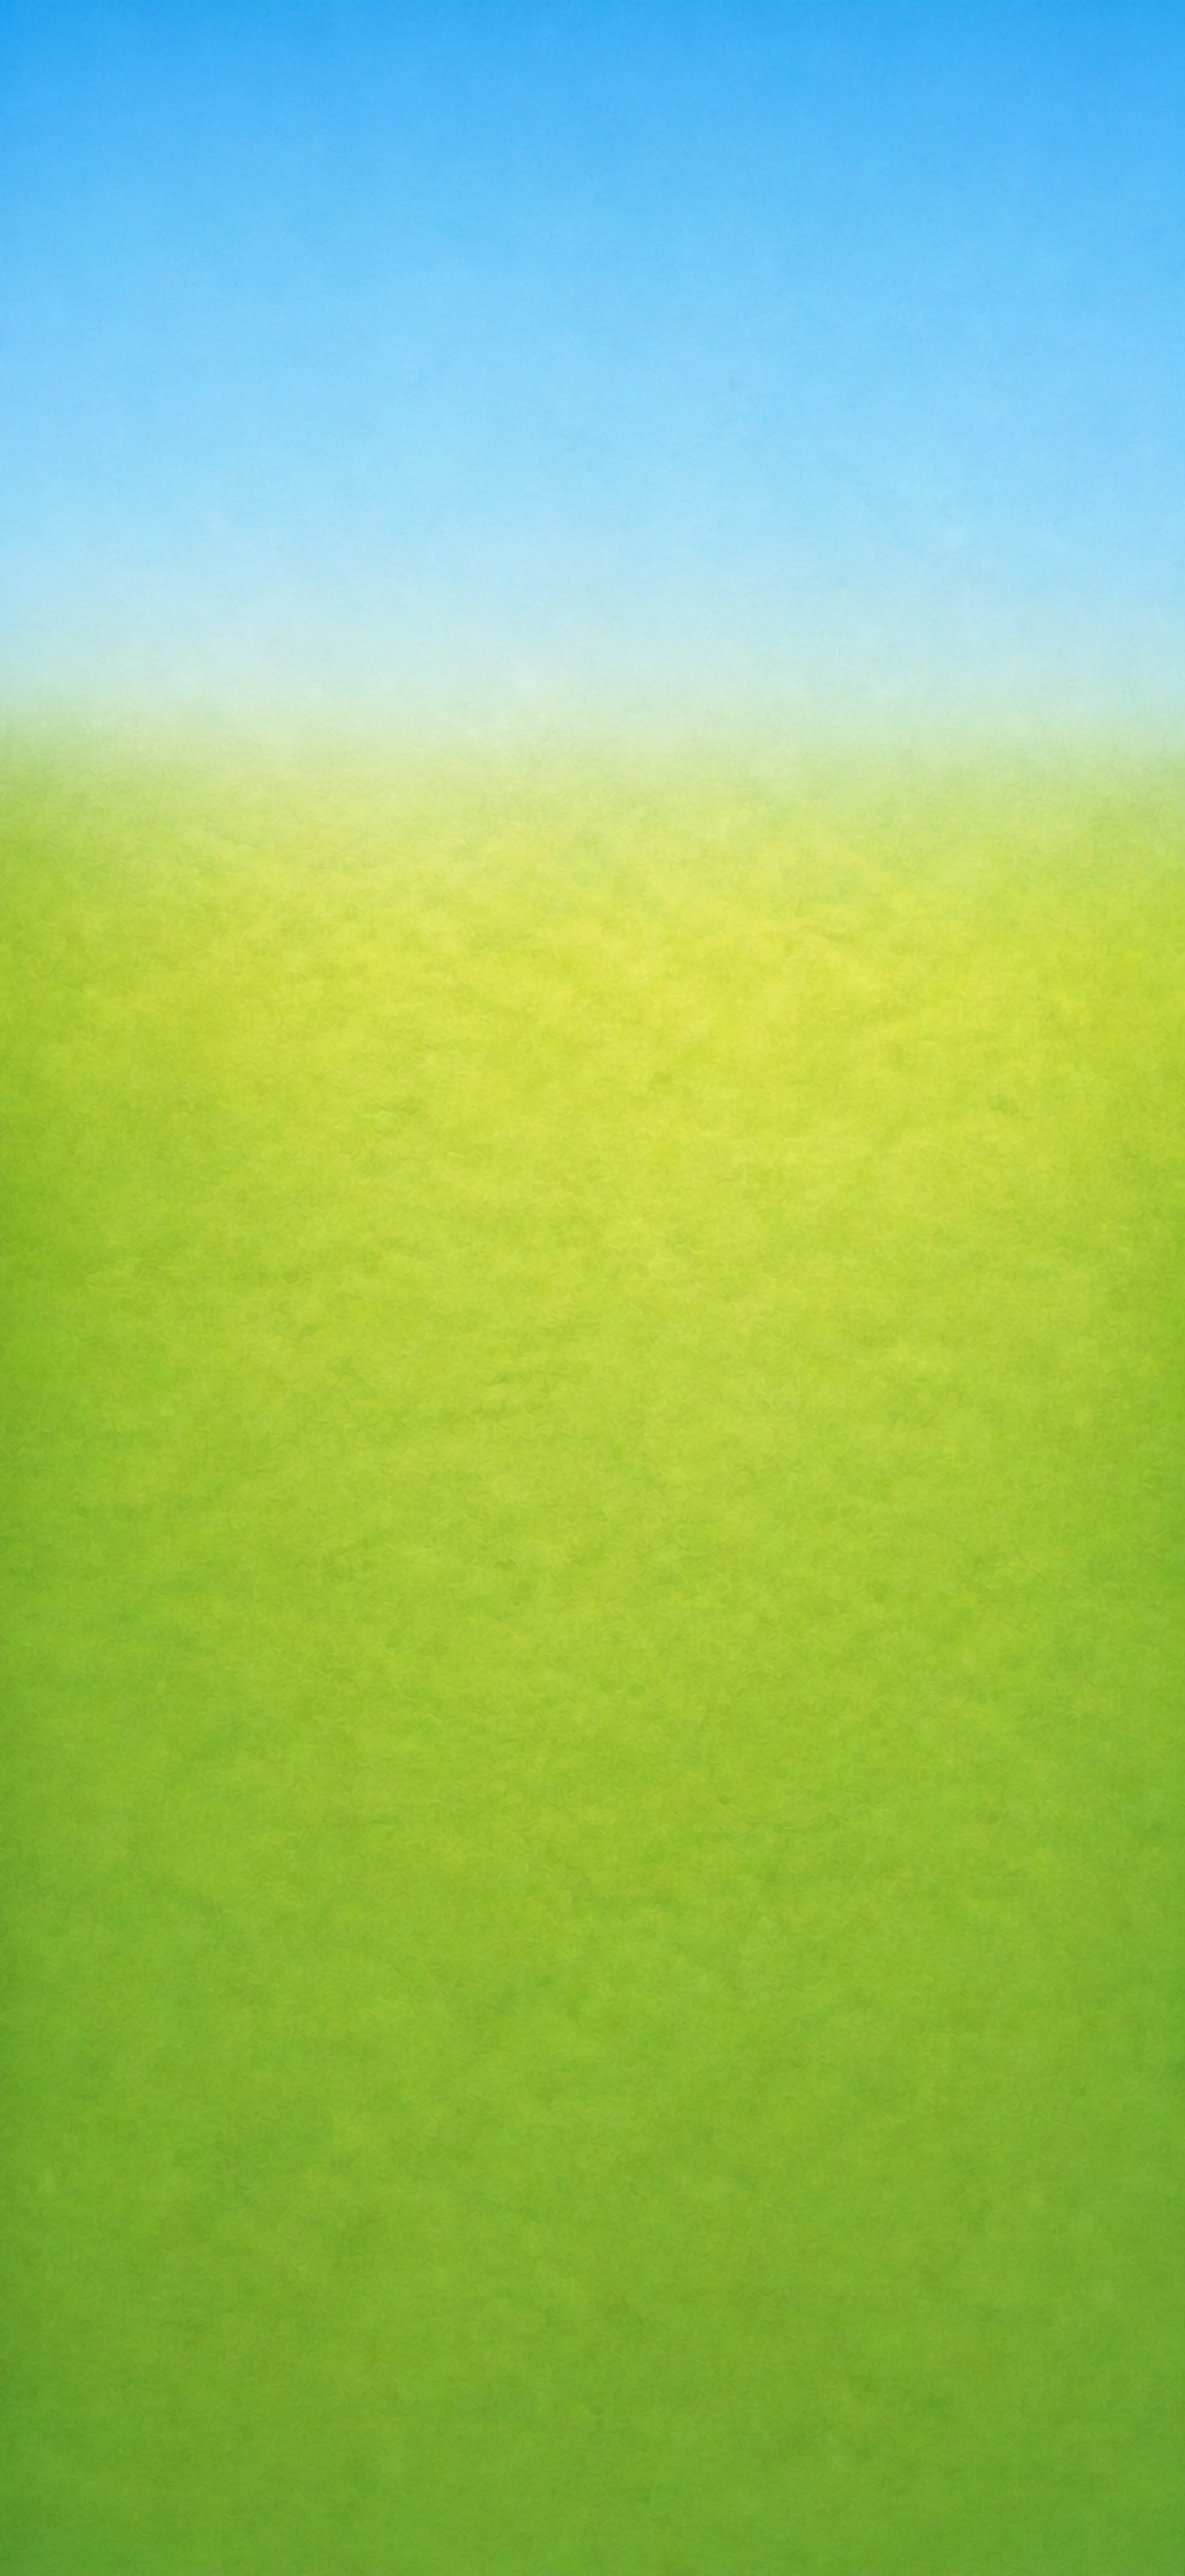
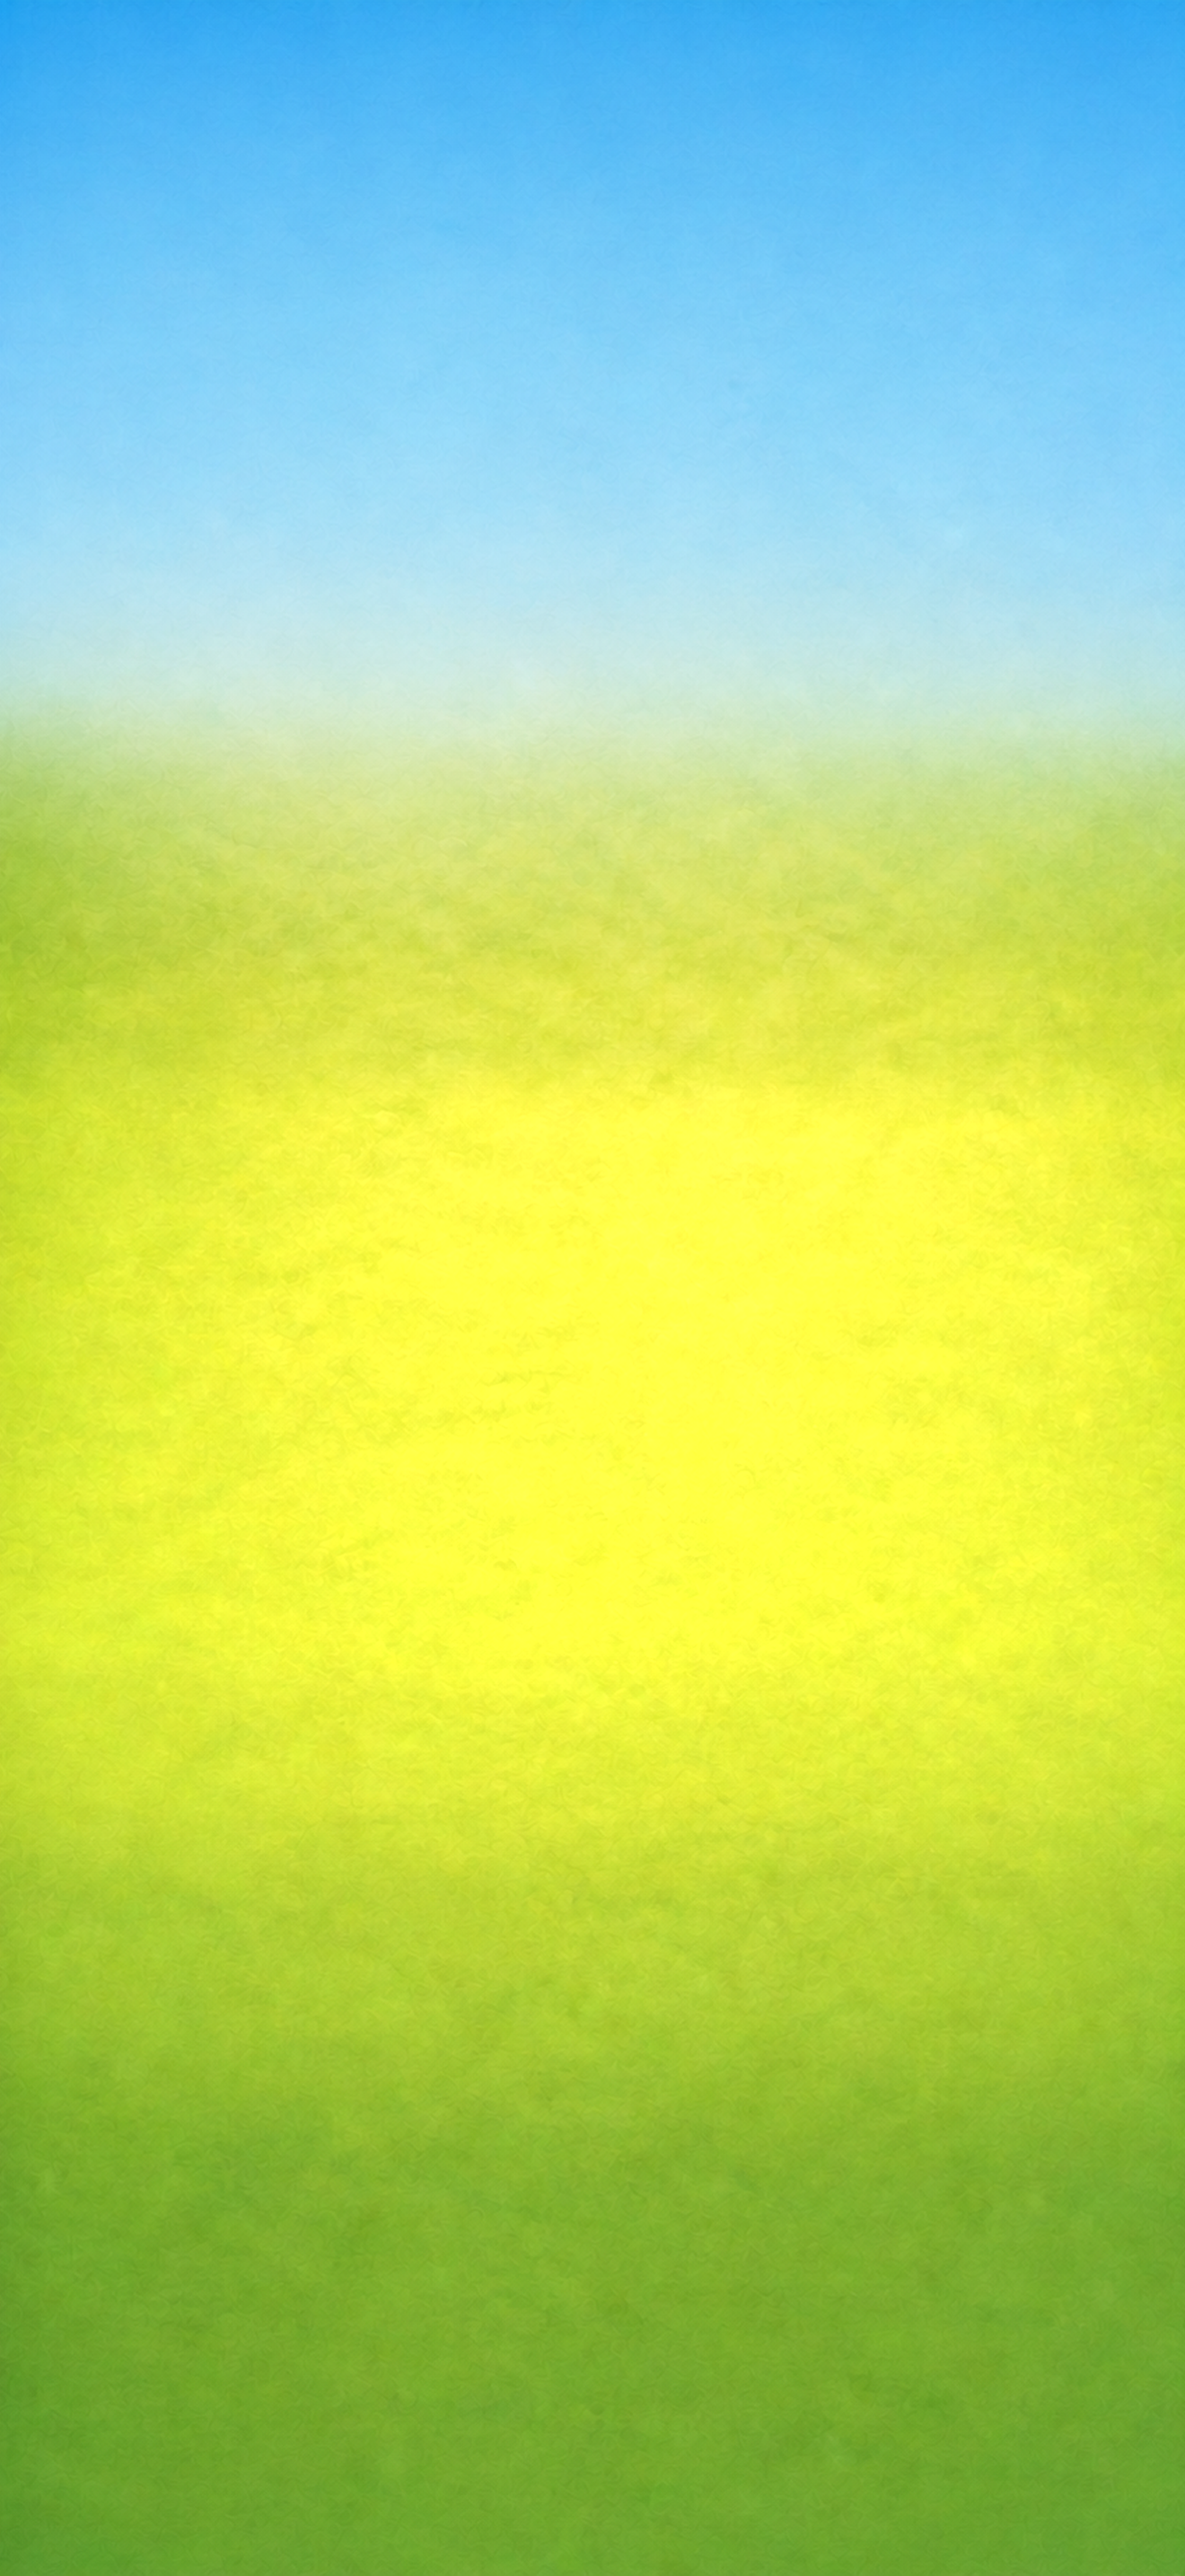
art(grove): brighten Edge Glade central meadow

diff --git a/games/grove/assets/_new/ui_redesign_direction_b/edge_glade_layered_work_v1/backdrop/source/edge_glade_true_backdrop_v1_value_grade.py b/games/grove/assets/_new/ui_redesign_direction_b/edge_glade_layered_work_v1/backdrop/source/edge_glade_true_backdrop_v1_value_grade.py
@@ -1,0 +1,70 @@
+#!/usr/bin/env python3
+"""Conform and apply the approved broad meadow value progression."""
+
+from pathlib import Path
+
+import numpy as np
+from PIL import Image, ImageOps
+
+
+ROOT = Path(__file__).resolve().parents[1]
+SOURCE = ROOT / "source" / "edge_glade_true_backdrop_v1_raw.png"
+OUTPUT = ROOT / "final" / "edge_glade_true_backdrop_v1.png"
+SIZE = (1320, 2868)
+
+# Normalized y and grade strength. Cubic interpolation between knots prevents
+# hard bands. The sky and bottom quiet zone remain unchanged.
+KNOTS = (
+    (0.00, 0.0),
+    (0.36, 0.0),
+    (0.40, 18.0),
+    (0.44, 55.0),
+    (0.50, 72.0),
+    (0.63, 90.0),
+    (0.68, 75.0),
+    (0.75, 40.0),
+    (0.86, 0.0),
+    (1.00, 0.0),
+)
+
+
+def smoothstep(value: np.ndarray) -> np.ndarray:
+    return value * value * (3.0 - 2.0 * value)
+
+
+def grade_curve(height: int) -> np.ndarray:
+    y = np.linspace(0.0, 1.0, height, dtype=np.float32)
+    result = np.zeros(height, dtype=np.float32)
+    for (start_y, start_v), (end_y, end_v) in zip(KNOTS, KNOTS[1:]):
+        mask = (y >= start_y) & (y <= end_y)
+        t = smoothstep((y[mask] - start_y) / (end_y - start_y))
+        result[mask] = start_v + (end_v - start_v) * t
+    return result
+
+
+def main() -> None:
+    with Image.open(SOURCE) as source:
+        conformed = ImageOps.fit(
+            source.convert("RGB"),
+            SIZE,
+            method=Image.Resampling.LANCZOS,
+            centering=(0.5, 0.5),
+        )
+
+    pixels = np.asarray(conformed, dtype=np.float32).copy()
+    strength = grade_curve(SIZE[1])[:, None]
+
+    # Add more red/green than blue so the brighter center remains yellow-green;
+    # the same weights make the upper meadow slightly darker and cooler.
+    pixels[:, :, 0] += strength * 1.00
+    pixels[:, :, 1] += strength * 0.65
+    pixels[:, :, 2] += strength * 0.10
+
+    OUTPUT.parent.mkdir(parents=True, exist_ok=True)
+    Image.fromarray(np.clip(pixels, 0, 255).astype(np.uint8), "RGB").save(
+        OUTPUT, format="PNG"
+    )
+
+
+if __name__ == "__main__":
+    main()
